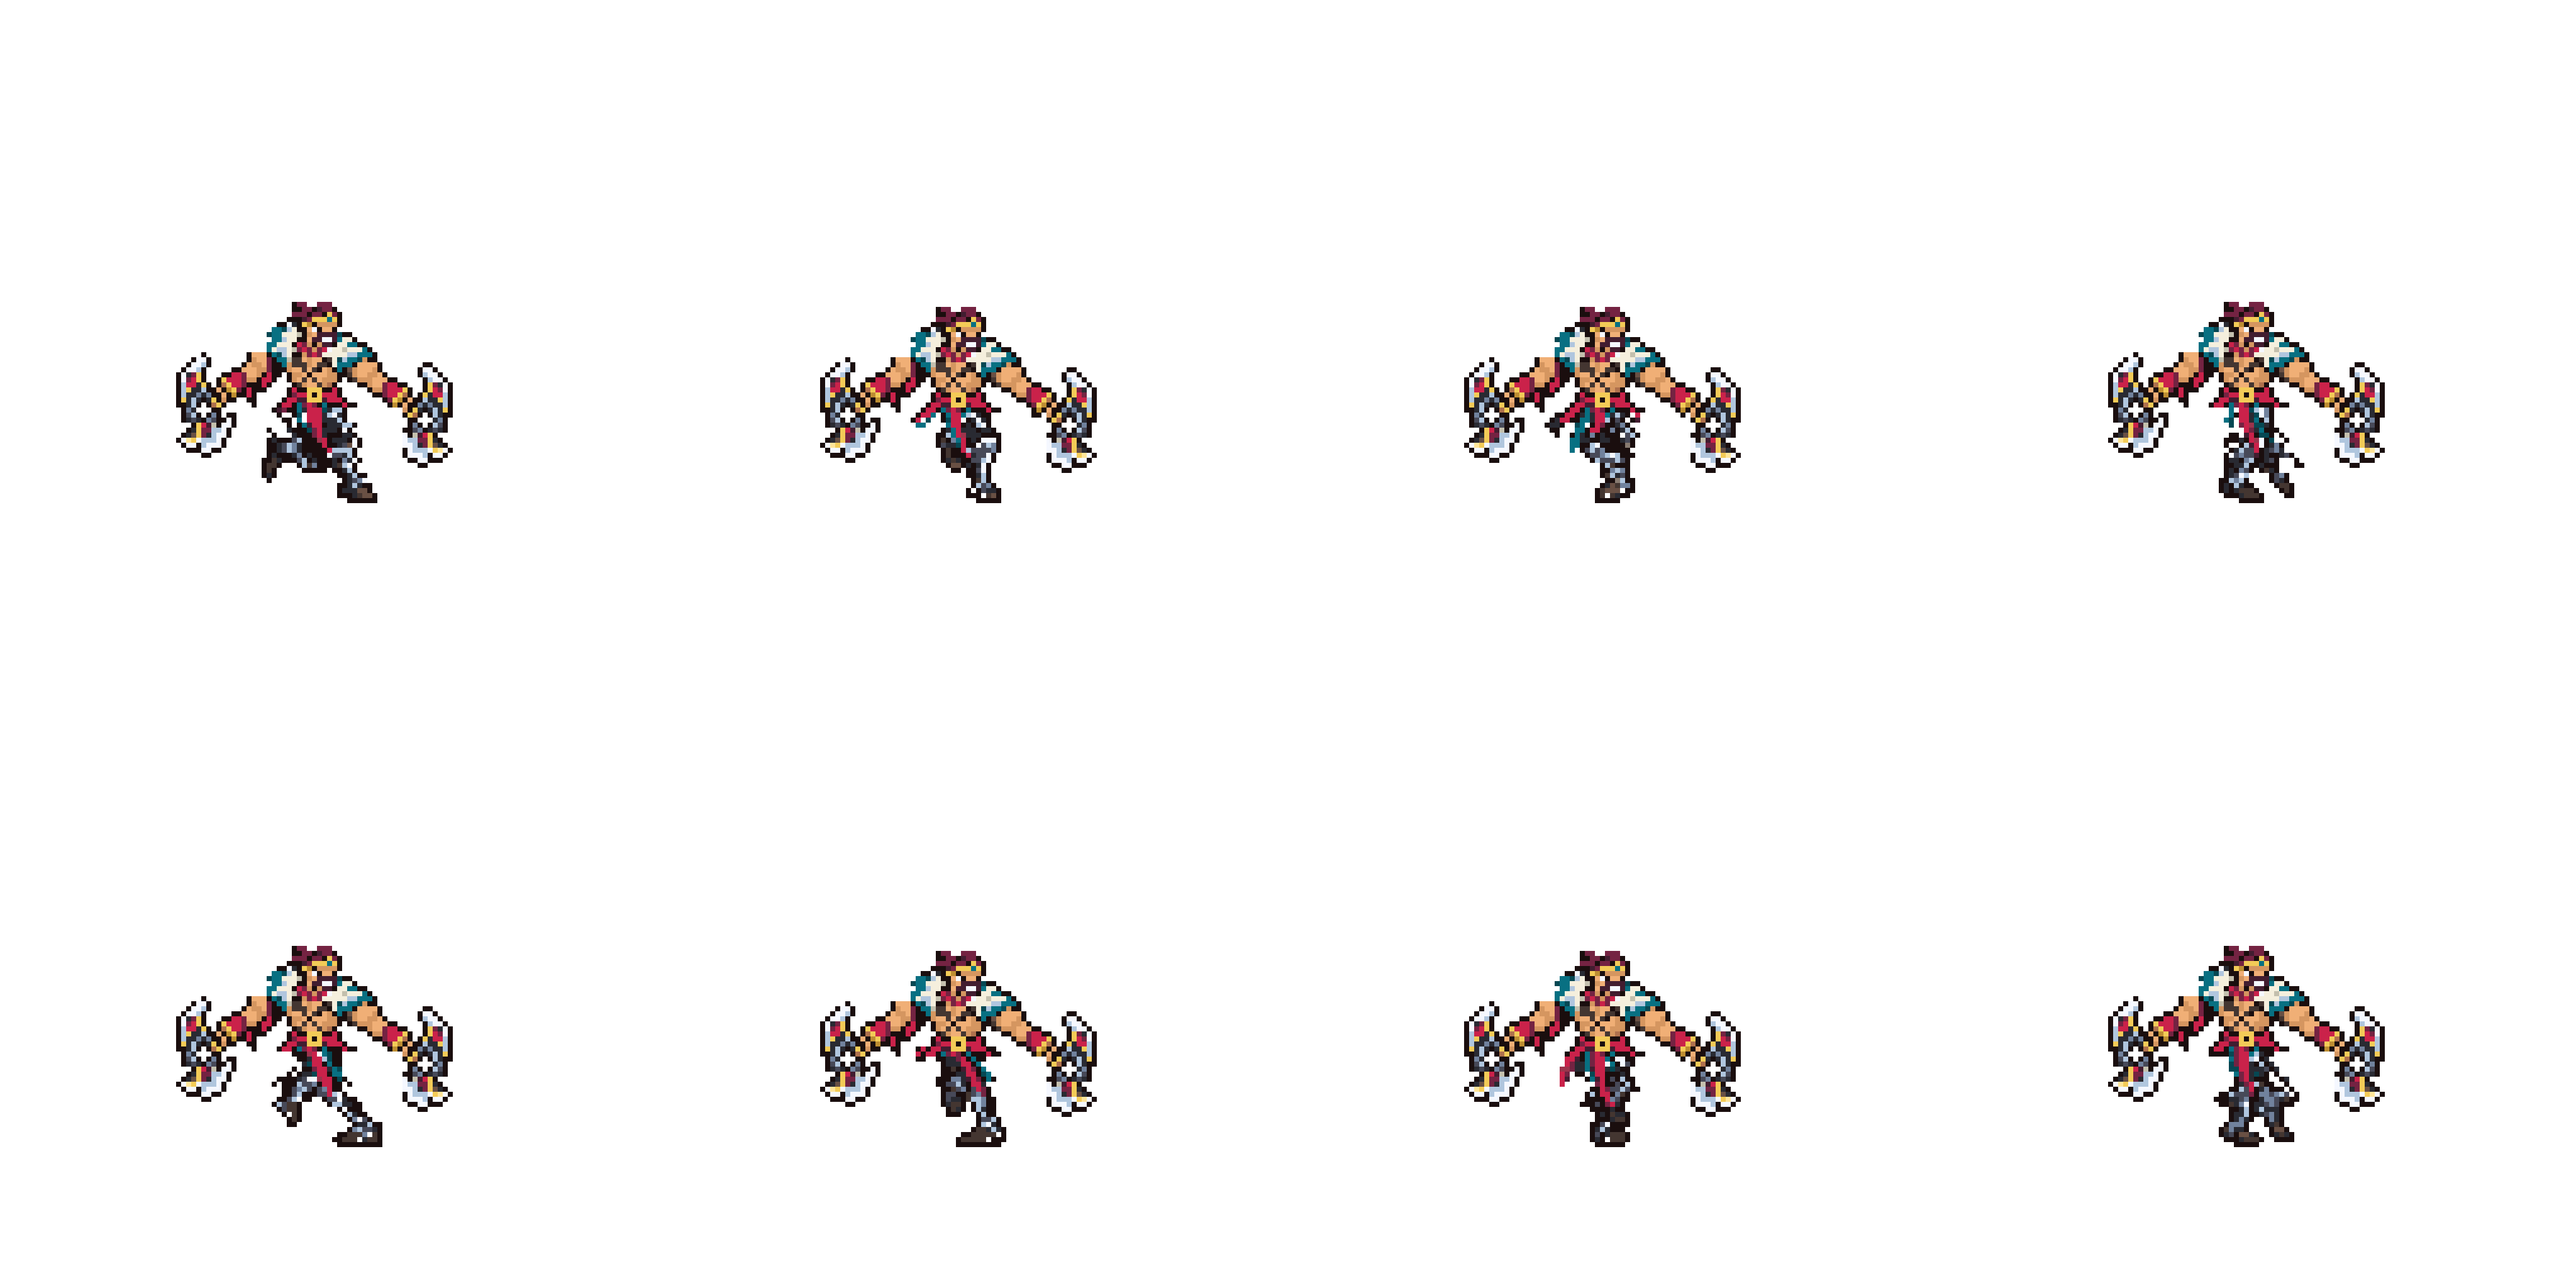
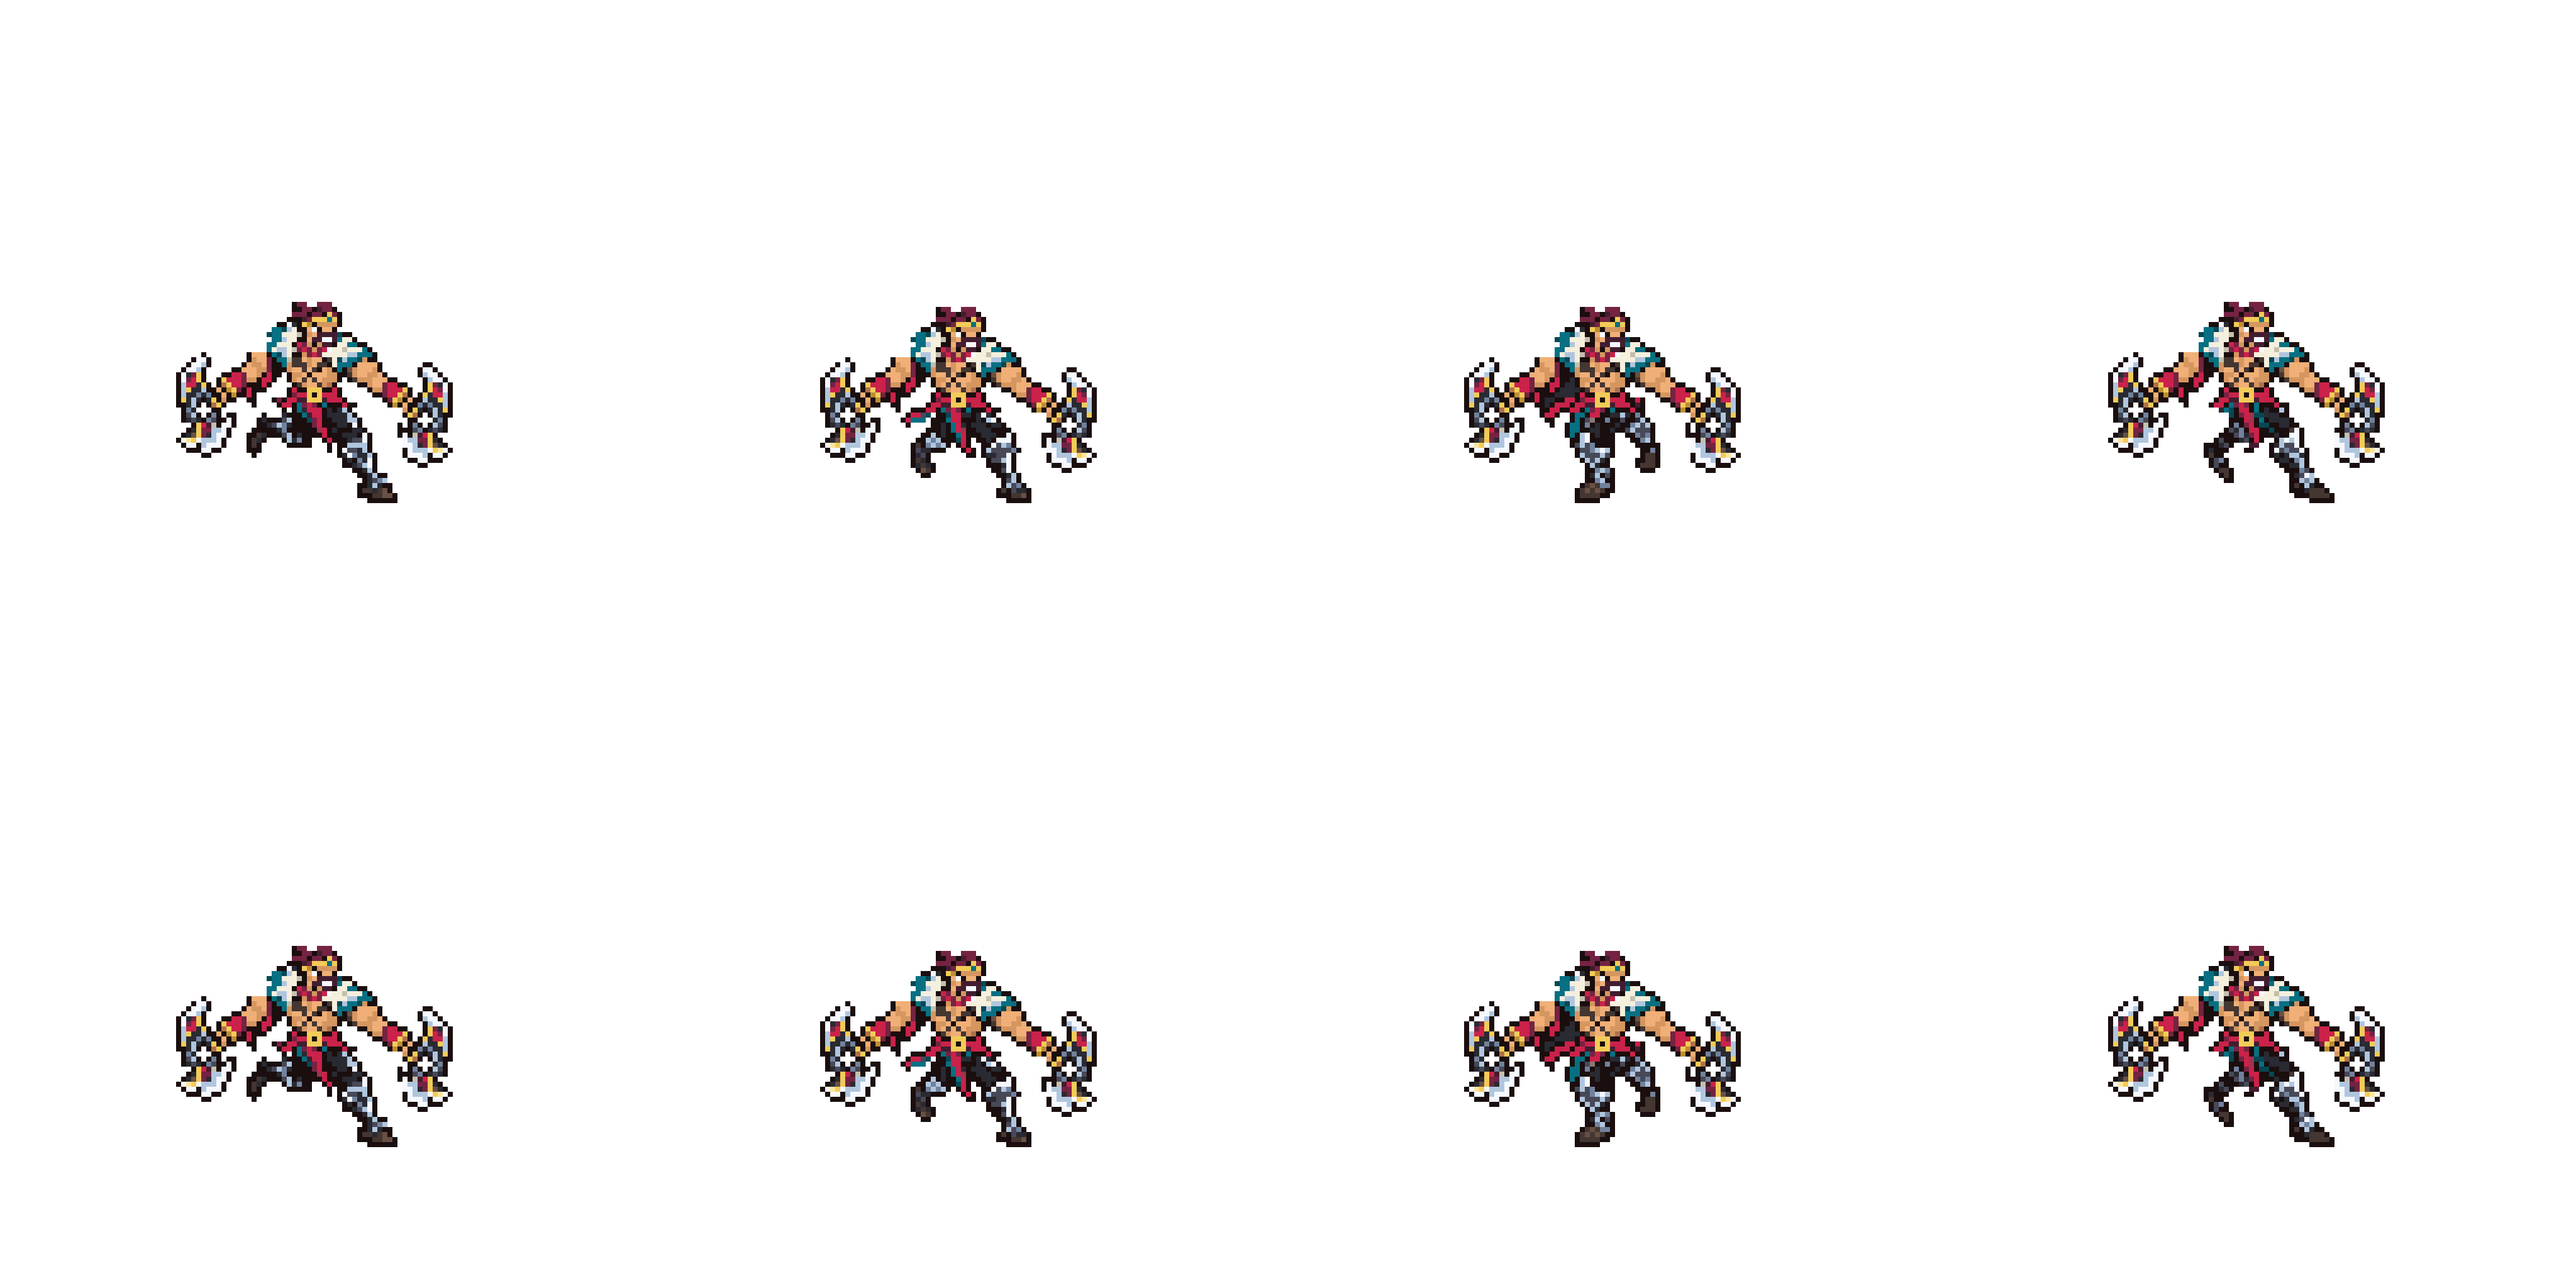
Draven: run legs read straight from the generator's raw frames (Codex's resampled legs were broken), stride frames 1-4 looped

diff --git a/tools/art/fix_draven_strips.py b/tools/art/fix_draven_strips.py
@@ -39,6 +39,7 @@ ROOT = os.path.dirname(os.path.dirname(HERE))
 SRC = os.path.join(ROOT, "assets", "source", "draven", "codex_strips", "1x")
 DESIGN = os.path.join(ROOT, "assets", "source", "native", "draven_native.png")
 OUT = os.path.join(ROOT, "assets", "source", "native")
+sys.path.insert(0, HERE)
 Z = 8
 SOLES, MID = 99, 64
 PIVOT = (MID, SOLES - 11)          # 11 rows over the soles, as tools/lol/native_pose.py puts it
@@ -225,9 +226,47 @@ WAIST = (70, 92, 44, 64)           # rows, columns by the far hip: gaps there ar
 SHADOW = (0x29, 0x2A, 0x32)
 
 
+RAW = os.path.join(ROOT, "assets", "source", "draven", "codex_strips", "raw")
+PITCH = 1254 / 128                 # the generator drew the 1024 canvas at 1254 px: one game square = 9.8 px
+
+
+def raw_legs(d, k):
+    """The legs as the generator drew them in run frame k (raw/run_<k>.png read on the 128 grid: each square the
+    median of its middle 3 x 3, the nearest design colour in CIELAB) - Codex's own 1x had moved and resampled them
+    into the pack's boot boxes, which broke them into thin specks (the user: 「腿部严重变形」). Everything under the
+    belt but the near axe, lifted so the soles stand on row 99."""
+    import design_rengar as R
+    pal = np.unique(d[d[..., 3] > 0][:, :3], axis=0)
+    pl = R.lab(pal.astype(float))
+    im = np.asarray(Image.open(lp(os.path.join(RAW, f"run_{k + 1}.png"))).convert("RGBA")).astype(float)
+    a = np.zeros((128, 128, 4), np.uint8)
+    for y in range(HIP_ROW - 2, 128):
+        for x in range(128):
+            cy, cx = int((y + 0.5) * PITCH), int((x + 0.5) * PITCH)
+            if not (1 <= cy < im.shape[0] - 1 and 1 <= cx < im.shape[1] - 1):
+                continue
+            blk = im[cy - 1:cy + 2, cx - 1:cx + 2].reshape(-1, 4)
+            if (blk[:, 3] >= 128).mean() < 0.5:
+                continue
+            c = np.median(blk[blk[:, 3] >= 128][:, :3], axis=0)
+            a[y, x, :3] = pal[((R.lab(c[None]) - pl) ** 2).sum(-1).argmin()]
+            a[y, x, 3] = 255
+    b = BOB[k]
+    a[:HIP_ROW + b] = 0
+    a[:AXE_LOW + b + 1, AXE_X:] = 0
+    ys = np.nonzero(a[..., 3])[0]
+    return shift(a, 0, SOLES - ys.max()) if len(ys) and ys.max() > SOLES else a
+
+
+# the raw legs of frames 1-4 make one whole stride (the near foot lands in 4, pushes back through 1-2, swings in 3;
+# the far one lands in 3, pushes back in 4, kicks up in 1, swings in 2); frames 5-8 kept both feet where 1-4 had
+# them (no swap), so the run plays 1-4 twice (two legs alike: a stride and its half-cycle twin look the same)
+LEG_SRC = [0, 1, 2, 3, 0, 1, 2, 3]
+
+
 def run_frame(d, k, variant):
     arm, body = run_upper(d, variant)
-    legs = codex_legs(d, k)
+    legs = raw_legs(d, LEG_SRC[k])
     up = over(shift(arm, 0, BOB[k]), shift(body, 0, BOB[k]))   # the body over the far arm's root
     fr = over(legs, up)
     # Codex's hips were drawn for the raised-arm body: lowered, the far arm closes a pocket by the far hip in the
